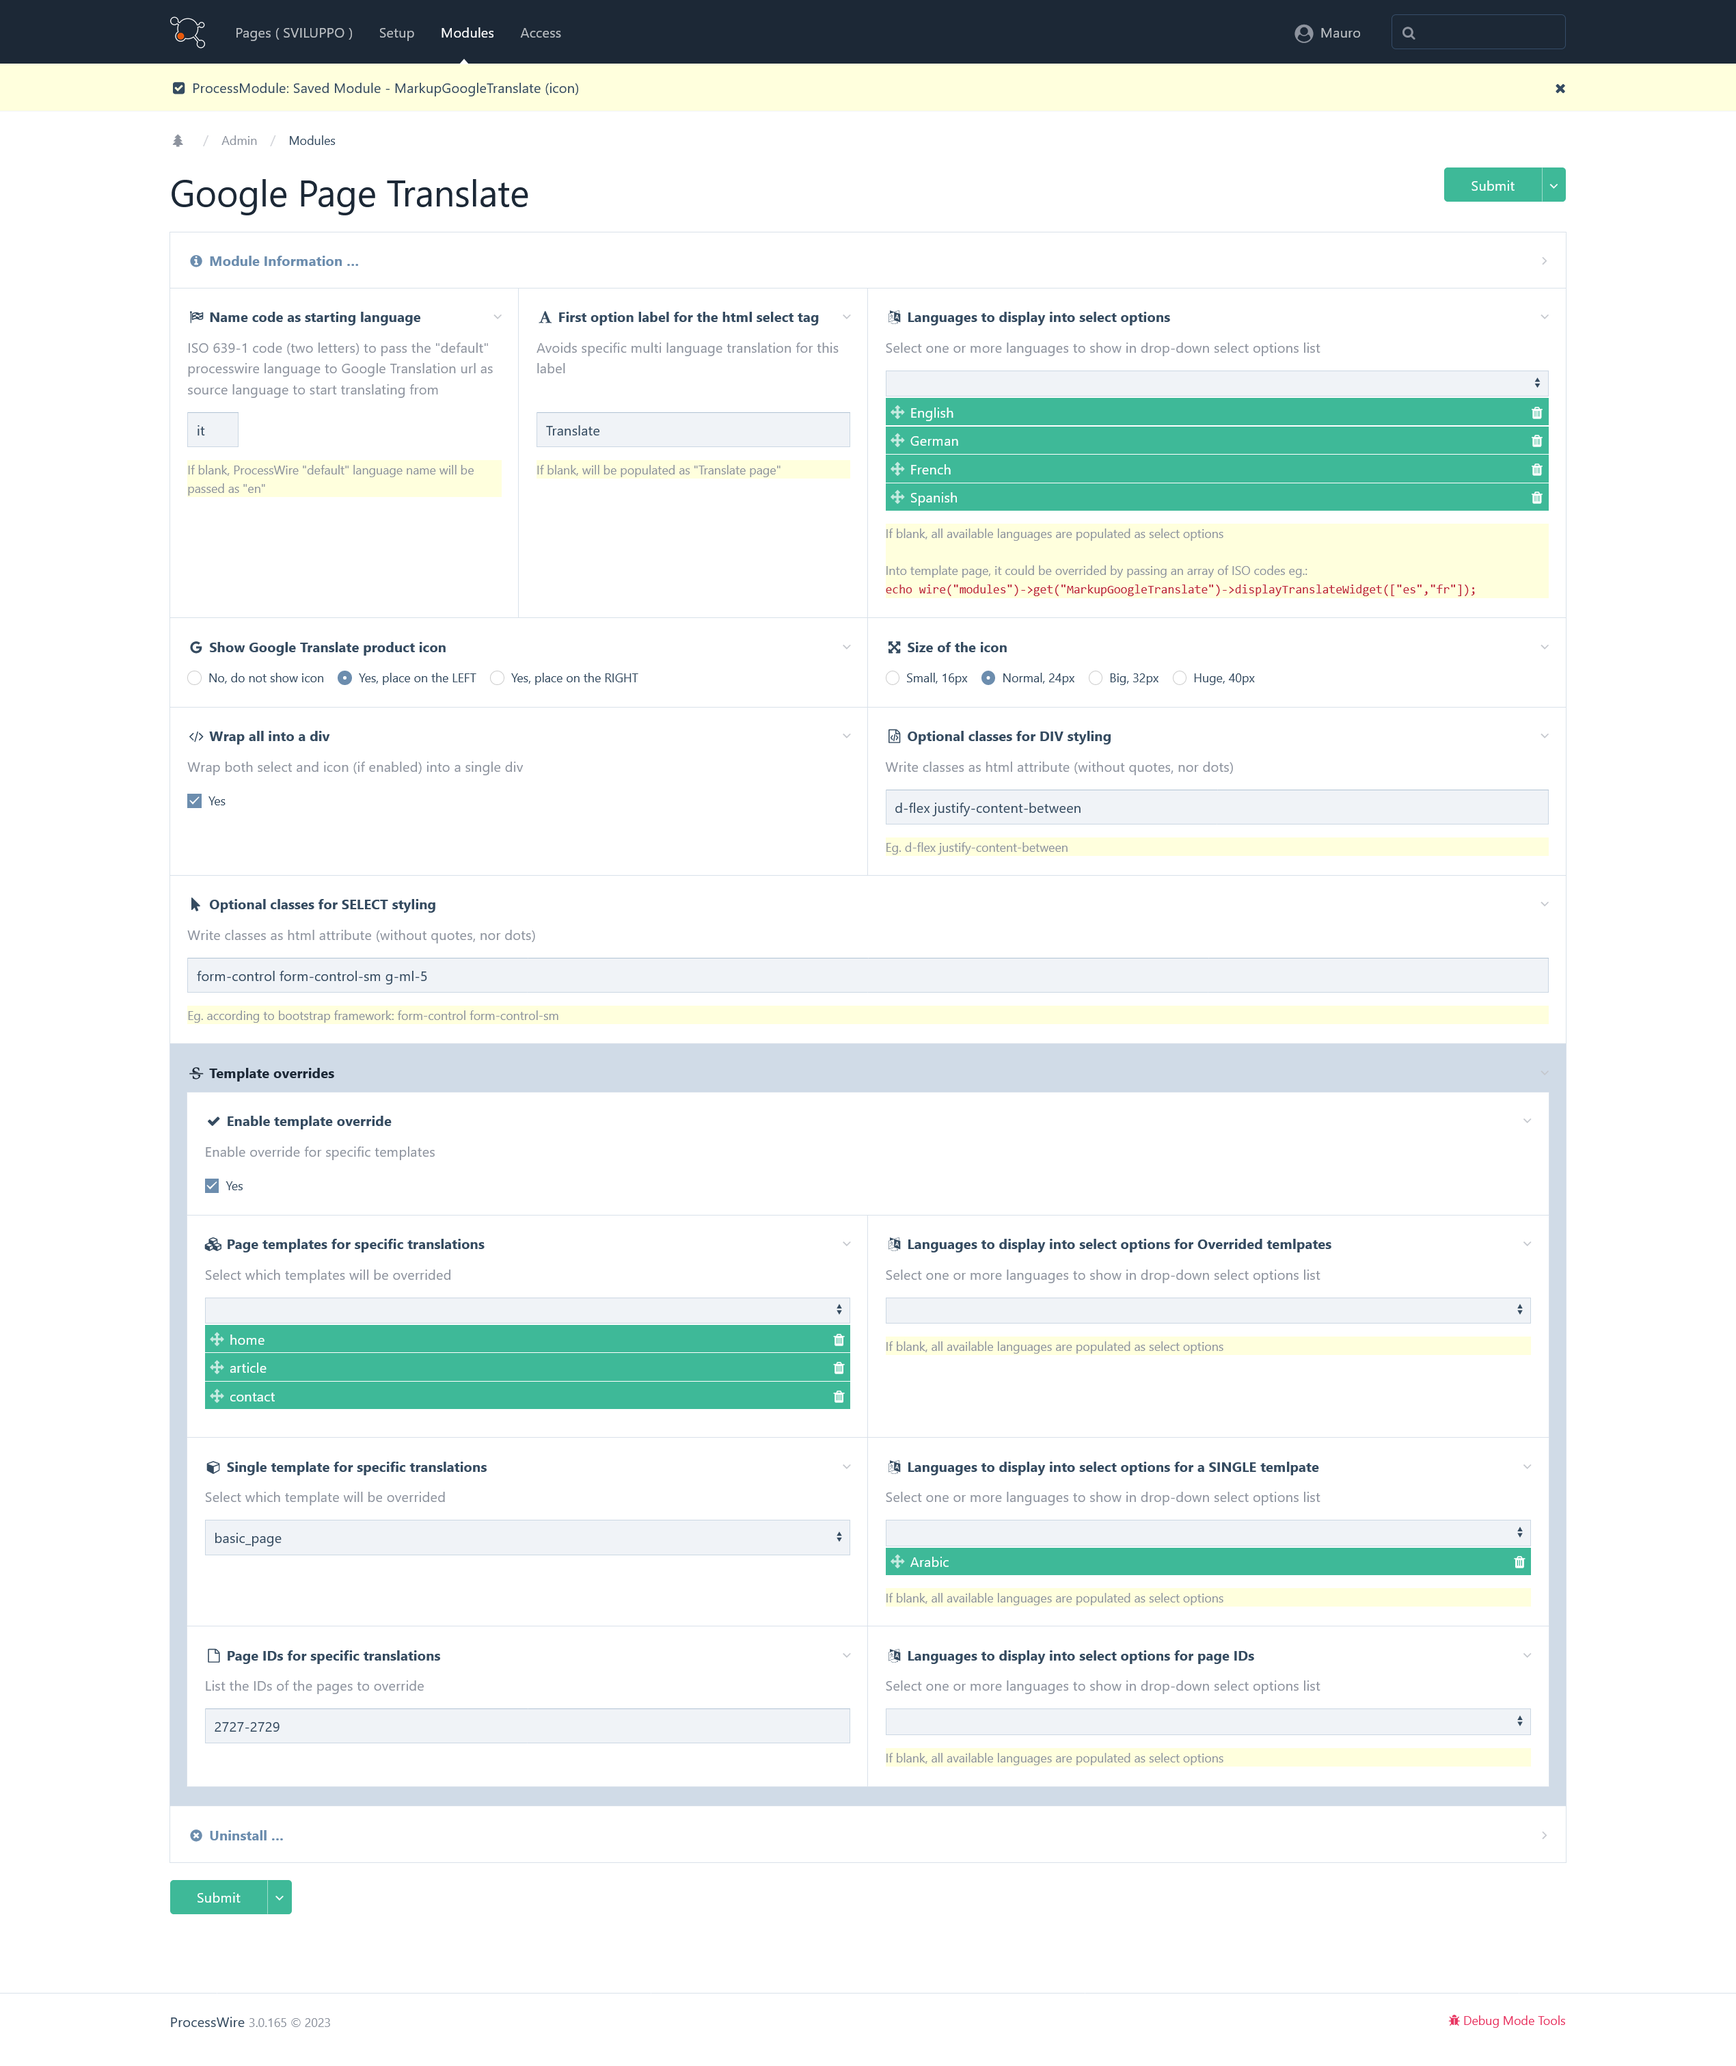
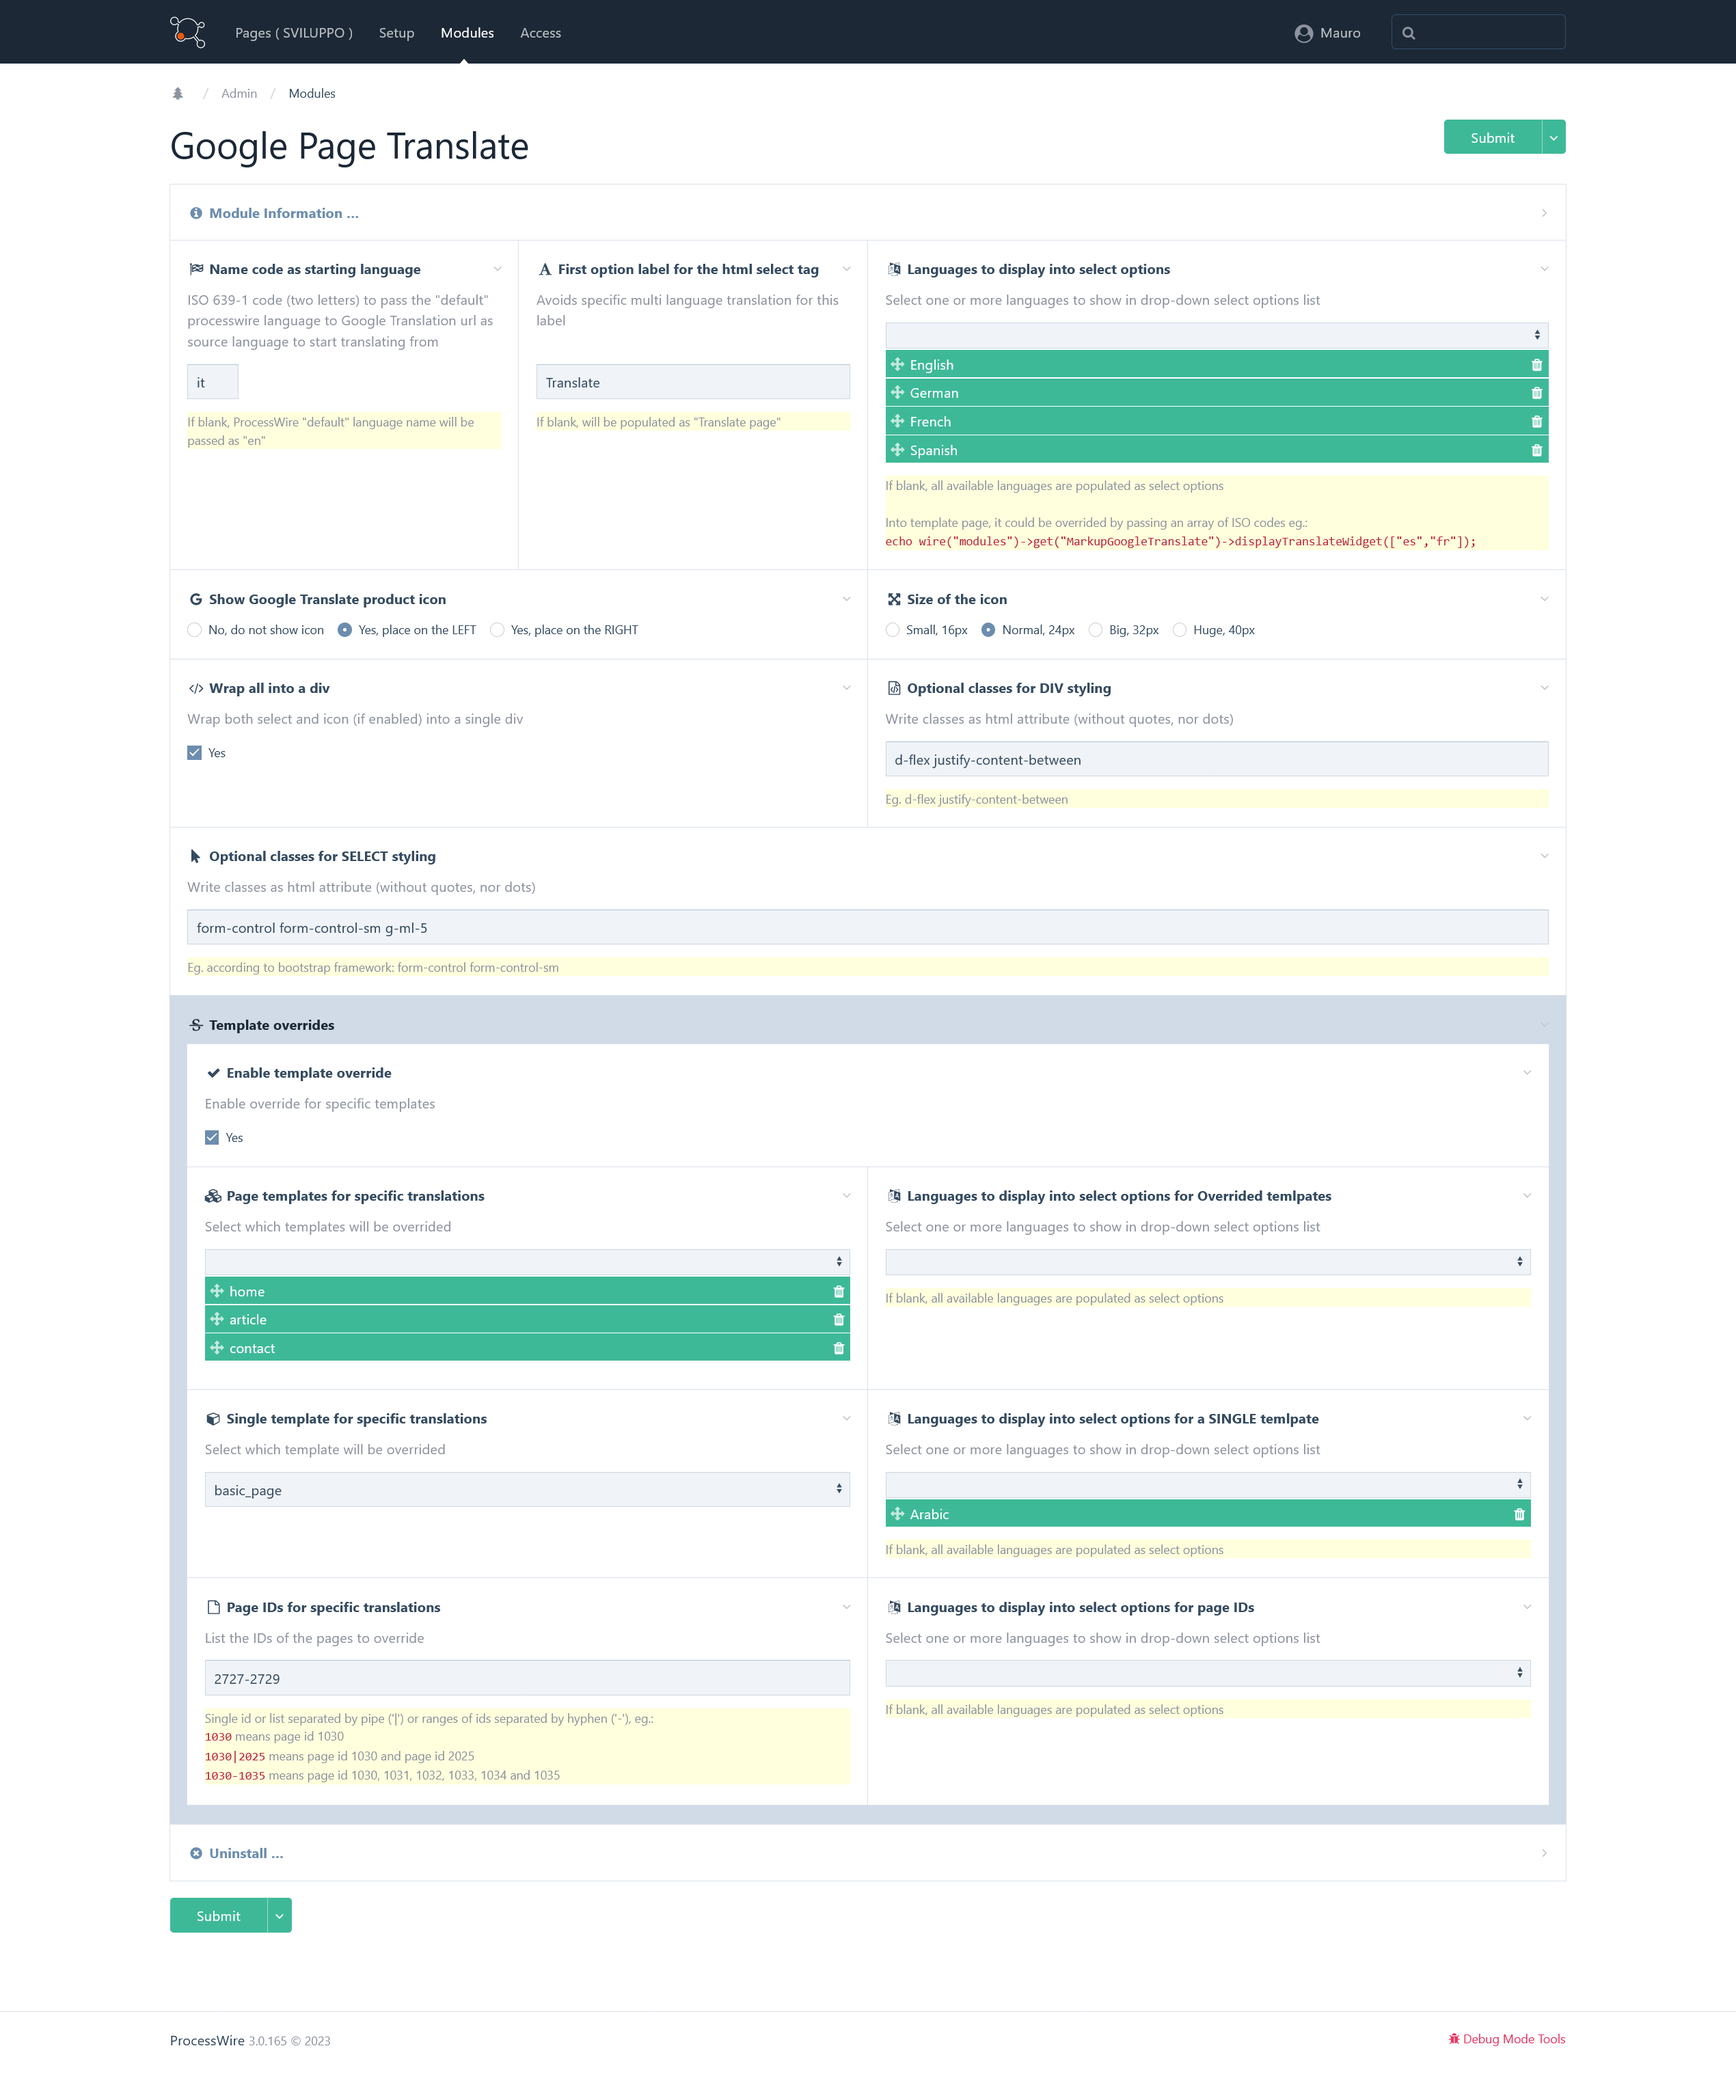
Update notes
Added notes for page ids selections

Changed region(s): [[0.0, 0.0311, 1.0, 0.8709], [0.0933, 0.2799, 0.2799, 0.3733]]

diff --git a/MarkupGoogleTranslateConfig.php b/MarkupGoogleTranslateConfig.php
@@ -232,6 +232,10 @@ class MarkupGoogleTranslateConfig extends ModuleConfig {
         $f->icon = 'file-o'; 
         $f->label = 'Page IDs for specific translations';
         $f->description = 'List the IDs of the pages to override';
+        $f->notes = 'Single id or list separated by pipe (\'|\') or ranges of ids separated by hyphen (\'-\'), eg.:
+        ```1030``` means page id 1030
+        ```1030|2025``` means page id 1030 and page id 2025
+        ```1030-1035``` means page id 1030, 1031, 1032, 1033, 1034 and 1035';
         $f->options = $asmOptions;
         $f->columnWidth = 50;
         $f->showIf = 'overrides=1';
